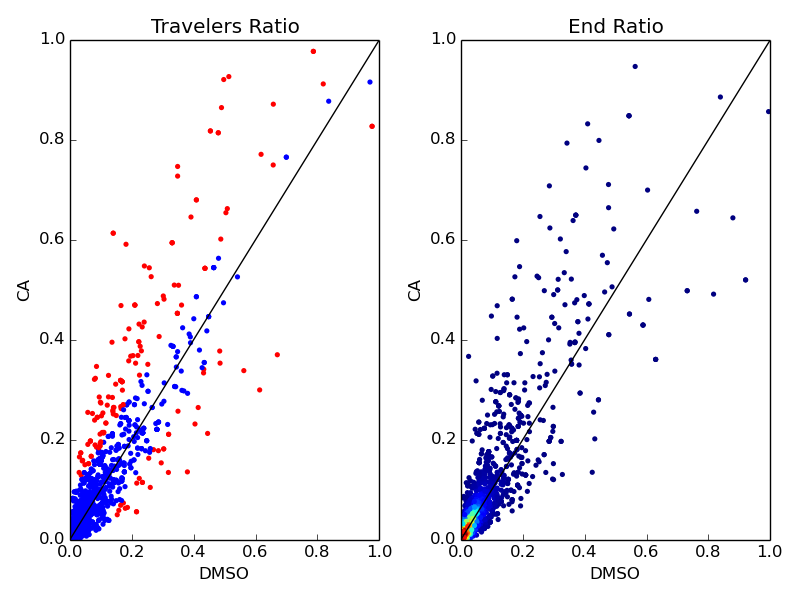
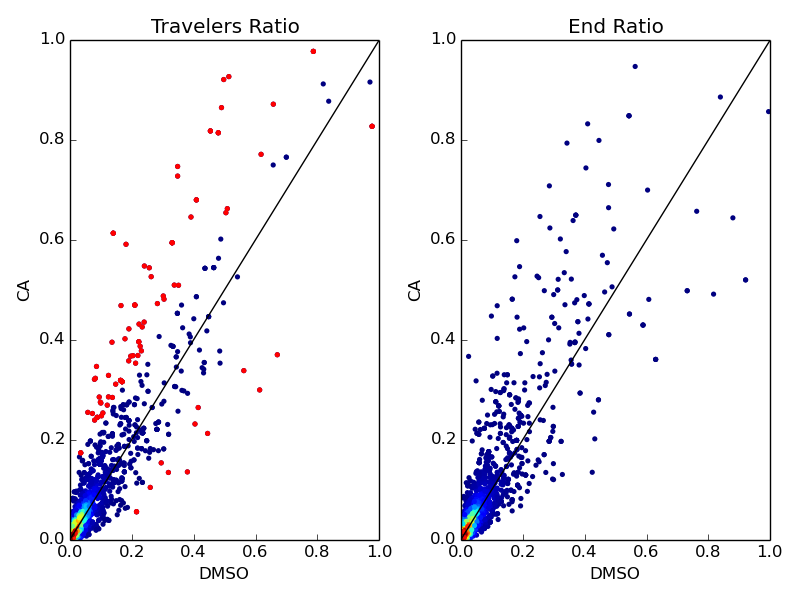
updates

diff --git a/src/master_writer.py b/src/master_writer.py
@@ -55,7 +55,7 @@ def run(DMSOgenes,DMSOTSS,DMSOEND,CAgenes,CATSS,CAEND,filedir,figuredir):
                 coverage = '0'
             d[gene].append(coverage)
             
-    coveragecutoff = 200
+    coveragecutoff = 100
     TRlist = list()
     TRgenes = list()
     DMSOTRgenes = list()
@@ -131,6 +131,30 @@ def run(DMSOgenes,DMSOTSS,DMSOEND,CAgenes,CATSS,CAEND,filedir,figuredir):
             TRx2.append(TRx[i])
             TRy2.append(TRy[i])
             
+    distance2 = list()
+    for i in range(len(ERx)):
+        x = ERx[i]
+        y = ERy[i]
+        xy = ((x+y)/2,(x+y)/2)
+        d = np.sqrt((x-xy[0])**2+(y-xy[1])**2)
+        print x,y,xy,d
+        distance2.append(d)
+        
+    grubbs = True
+    alpha = 0.05
+    i=0
+    N = len(distance2)
+    distancelist = np.zeros(N)
+    s = np.sqrt(np.var(distance2))
+    ERx2 = list()
+    ERy2 = list()
+    print N,len(ERx),len(ERy)
+    for i in range(N):
+        if distance2[i] > 3*s:
+            print i
+            ERx2.append(ERx[i])
+            ERy2.append(ERy[i])
+            
     #while grubbs == True:
     #    i+=1
     #    #print i
@@ -167,8 +191,6 @@ def run(DMSOgenes,DMSOTSS,DMSOEND,CAgenes,CATSS,CAEND,filedir,figuredir):
     outfile2.write("High CA TR\n")
     F3 = plt.figure()
     ax1 = F3.add_subplot(121)
-    colors = ['blue', 'red']
-    levels = [0, 1]
     cmap, norm = mpl.colors.from_levels_and_colors(levels=levels, colors=colors, extend='max')
     xy = np.vstack([TRx,TRy])
     z = gaussian_kde(xy)(xy)
@@ -186,6 +208,7 @@ def run(DMSOgenes,DMSOTSS,DMSOEND,CAgenes,CATSS,CAEND,filedir,figuredir):
     xy = np.vstack([ERx,ERy])
     z = gaussian_kde(xy)(xy)
     ax2.scatter(ERx,ERy,c=z,edgecolor="",s=14)
+    ax2.scatter(ERx2,ERy2,c='red',edgecolor="",s=14)
     ax2.set_title('End Ratio')
     ax2.set_ylabel('CA')
     ax2.set_xlabel('DMSO')
